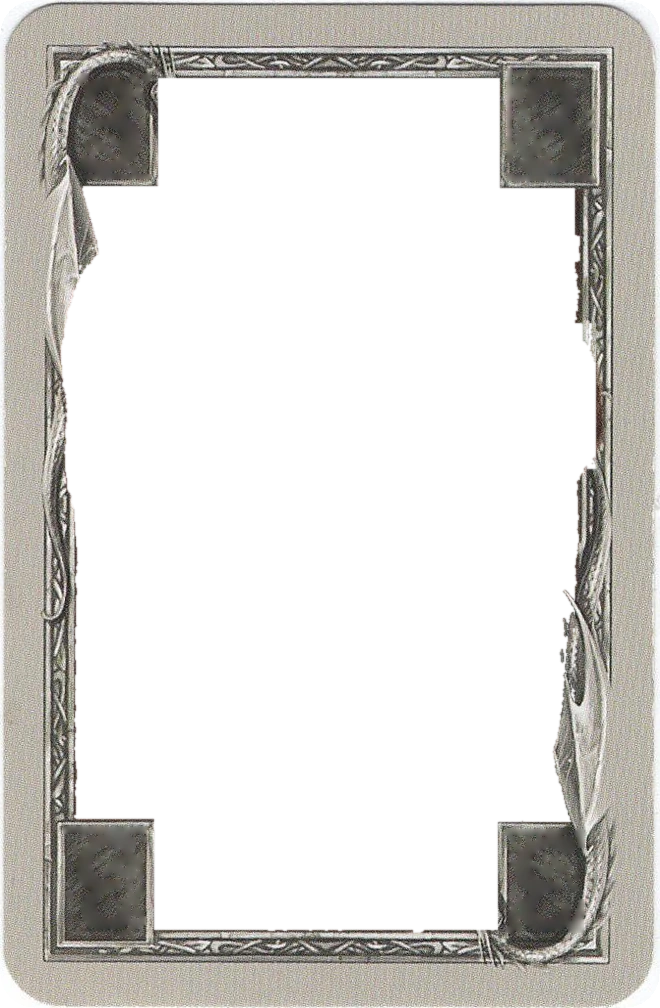
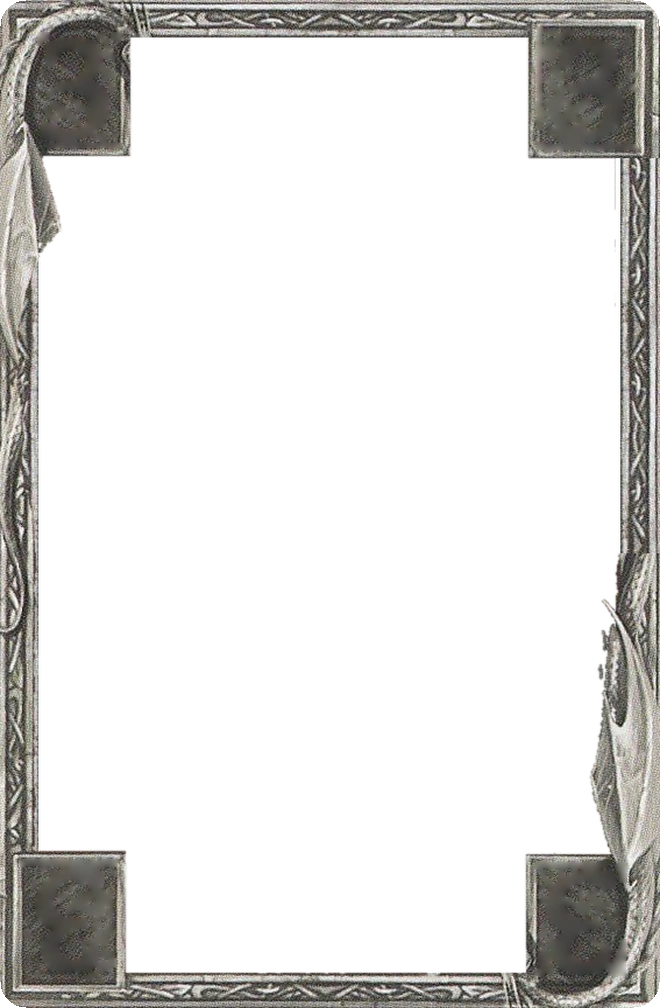
Dragonheart iteration 4: trimmed card frame with rounded corners, dark bar removed, card art aligned pixel-for-pixel with the board, numeral glow, simpler phone header

diff --git a/client/src/games/dragonheart/TableView.tsx b/client/src/games/dragonheart/TableView.tsx
@@ -218,7 +218,7 @@ function SpaceCards({ space, view }: { space: Space; view: DragonheartTableView 
           const r = slotRect(space, i)
           return (
             <div key={id} data-anchor={`slot-${space}-${i}`} style={placed(local(r), { zIndex: slotZ(i) })}>
-              <Card id={id} size={r.w} />
+              <Card id={id} size={r.w} height={r.h} />
             </div>
           )
         })}
@@ -233,7 +233,7 @@ function SpaceCards({ space, view }: { space: Space; view: DragonheartTableView 
       <StackEdges count={sv.count - 1} size={r.w} face="up" />
       {top && (
         <div data-anchor={`top-${space}`} style={{ position: 'absolute', inset: 0 }}>
-          <Card id={top} size={r.w} />
+          <Card id={top} size={r.w} height={r.h} />
         </div>
       )}
     </div>
@@ -265,7 +265,7 @@ function PileBelowShip({ view }: { view: DragonheartTableView }) {
           <StackEdges count={view.belowShip.count - 1} size={r.w} face="up" />
           {top && (
             <div data-anchor="belowShip" style={{ position: 'absolute', inset: 0 }}>
-              <Card id={top} size={r.w} />
+              <Card id={top} size={r.w} height={r.h} />
             </div>
           )}
         </div>
@@ -382,7 +382,7 @@ function ScorePile({ seat, rect, count, top }: { seat: number; rect: Rect; count
   return (
     <div data-anchor={`score-${seat}`} style={placed(rect)}>
       <StackEdges count={count - 1} size={rect.w} face="up" />
-      <Card id={top} size={rect.w} style={{ position: 'absolute', inset: 0 }} />
+      <Card id={top} size={rect.w} height={rect.h} style={{ position: 'absolute', inset: 0 }} />
     </div>
   )
 }
@@ -573,7 +573,7 @@ export function planAnimation(
         if (prevTop) {
           const r = slotRect(space, 0)
           const lands = t + (ids.length - 1) * STAGGER_MS + CARD_FLY
-          add({ from: r, to: r, node: <Card id={prevTop} size={r.w} />, delay: 0, duration: lands, vanishAt: lands, z: STACK_Z + before - 1 })
+          add({ from: r, to: r, node: <Card id={prevTop} size={r.w} height={r.h} />, delay: 0, duration: lands, vanishAt: lands, z: STACK_Z + before - 1 })
         }
         ids.forEach((id, j) => {
           const from = handRect(seat, Math.max(0, n0 - ids.length + j), n0)
@@ -583,7 +583,7 @@ export function planAnimation(
             {
               from,
               to,
-              node: <FlipCard w={to.w} h={to.h} first={<CardBack deck={deck} size={to.w} />} second={<Card id={id} size={to.w} />} />,
+              node: <FlipCard w={to.w} h={to.h} first={<CardBack deck={deck} size={to.w} height={to.h} />} second={<Card id={id} size={to.w} height={to.h} />} />,
               delay: t + j * STAGGER_MS,
               duration: CARD_FLY,
               flip: true,
@@ -614,11 +614,11 @@ export function planAnimation(
         const prevSeat = prev.players.find((p) => p.seat === seat)
         const lands = t + (pieces.length - 1) * STAGGER_MS + COLLECT_FLY
         if (prevSeat?.scoreTop) {
-          add({ from: to, to, node: <Card id={prevSeat.scoreTop} size={to.w} />, delay: 0, duration: lands, vanishAt: lands, z: 5 })
+          add({ from: to, to, node: <Card id={prevSeat.scoreTop} size={to.w} height={to.h} />, delay: 0, duration: lands, vanishAt: lands, z: 5 })
         }
         pieces.forEach((pc, i) => {
           const src = pc.id ? source(pc.id, pc.rect, t + i * STAGGER_MS) : { rect: pc.rect, delay: t + i * STAGGER_MS, appear: true, z: undefined }
-          const face = pc.id ? <Card id={pc.id} size={to.w} /> : <CardBack deck={prev.players[seat]?.deck ?? 'green'} size={to.w} />
+          const face = pc.id ? <Card id={pc.id} size={to.w} height={to.h} /> : <CardBack deck={prev.players[seat]?.deck ?? 'green'} size={to.w} />
           add(
             {
               from: src.rect,
@@ -663,7 +663,7 @@ export function planAnimation(
         const to = belowShipRect()
         ids.forEach((id, i) => {
           const src = source(id, slotRect(from, i), t + i * STAGGER_MS)
-          add({ from: src.rect, to, node: <Card id={id} size={to.w} />, delay: src.delay, duration: CARD_FLY, lift: 50, appear: src.appear, z: src.z ?? STACK_Z + i }, [id])
+          add({ from: src.rect, to, node: <Card id={id} size={to.w} height={to.h} />, delay: src.delay, duration: CARD_FLY, lift: 50, appear: src.appear, z: src.z ?? STACK_Z + i }, [id])
         })
         hidden.push('belowShip')
         sounds.push({ name: 'card-slide', at: t })
@@ -676,7 +676,7 @@ export function planAnimation(
         const to = shipStackRect(index)
         ids.forEach((id, i) => {
           const src = source(id, slotRect('ship', i), t + i * STAGGER_MS)
-          add({ from: src.rect, to, node: <Card id={id} size={to.w} />, delay: src.delay, duration: CARD_FLY, lift: 50, appear: src.appear, z: src.z ?? STACK_Z + i }, [id])
+          add({ from: src.rect, to, node: <Card id={id} size={to.w} height={to.h} />, delay: src.delay, duration: CARD_FLY, lift: 50, appear: src.appear, z: src.z ?? STACK_Z + i }, [id])
         })
         hidden.push(`shipstack-${index}`)
         sounds.push({ name: 'ship-bell', at: t })

diff --git a/client/src/games/dragonheart/components.tsx b/client/src/games/dragonheart/components.tsx
@@ -23,11 +23,8 @@ interface Frac {
   w: number
   h: number
 }
-const WINDOW = frameMeta.window as Frac
 const CARTOUCHES = frameMeta.cartouches as Record<'tl' | 'tr' | 'bl' | 'br', Frac>
 const pct = (v: number) => `${(v * 100).toFixed(3)}%`
-/** The board clip carries its painted outline at the edges; zoom slightly past it inside the window. */
-const ART_BLEED = 0.07
 
 export const DECK_FIELD: Record<DeckColor, { base: string; light: string }> = {
   green: { base: '#1f5a2a', light: '#3f8a3c' },
@@ -101,7 +98,11 @@ function Cartouche({ points, kind, at }: { points: number; kind: Kind; at: 'tl' 
 }
 
 /** A face-up Dragonheart card: board-clipped art inside the original card's frame, values in the cartouches. */
-export function Card({ id, size, style }: { id: string; size: number; style?: CSSProperties }) {
+/**
+ * `height` defaults to the card shape; on the board pass the outline's exact height so the art
+ * (the outline's own board region, stretched to fill) lines up pixel-for-pixel with the board.
+ */
+export function Card({ id, size, height, style }: { id: string; size: number; height?: number; style?: CSSProperties }) {
   const def = CARD_BY_ID[id]
   const kind = def?.kind ?? 'treasure'
   const pts = def?.points ?? 0
@@ -112,28 +113,21 @@ export function Card({ id, size, style }: { id: string; size: number; style?: CS
       style={{
         position: 'relative',
         width: size,
-        height: size * CARD_RATIO,
+        height: height ?? size * CARD_RATIO,
         fontSize: size / 10,
         borderRadius: CARD_RADIUS,
         overflow: 'hidden',
         ...style,
       }}
     >
-      <div style={{ position: 'absolute', left: pct(WINDOW.x), top: pct(WINDOW.y), width: pct(WINDOW.w), height: pct(WINDOW.h), overflow: 'hidden', background: '#2a2622' }}>
-        <img
-          src={CARD_IMG[kind]}
-          alt=""
-          draggable={false}
-          style={{
-            position: 'absolute',
-            left: pct(-ART_BLEED),
-            top: pct(-ART_BLEED),
-            width: pct(1 + 2 * ART_BLEED),
-            height: pct(1 + 2 * ART_BLEED),
-            objectFit: 'cover',
-          }}
-        />
-      </div>
+      {/* The art is the board region of the outline itself, filling the whole card with no zoom or
+          offset, so on its outline every point of the card shows the board pixel it covers. */}
+      <img
+        src={CARD_IMG[kind]}
+        alt=""
+        draggable={false}
+        style={{ position: 'absolute', inset: 0, width: '100%', height: '100%', objectFit: 'fill' }}
+      />
       <img src={FRAME_IMG} alt="" draggable={false} style={{ position: 'absolute', inset: 0, width: '100%', height: '100%', zIndex: 2 }} />
       <Cartouche points={pts} kind={kind} at="tl" />
       <Cartouche points={pts} kind={kind} at="tr" />
@@ -144,14 +138,14 @@ export function Card({ id, size, style }: { id: string; size: number; style?: CS
 }
 
 /** A card back: the repainted green or red back art inside the grey border and silver frame. */
-export function CardBack({ deck, size, style }: { deck: DeckColor; size: number; style?: CSSProperties }) {
+export function CardBack({ deck, size, height, style }: { deck: DeckColor; size: number; height?: number; style?: CSSProperties }) {
   return (
     <div
       className="dh-card"
       style={{
         position: 'relative',
         width: size,
-        height: size * CARD_RATIO,
+        height: height ?? size * CARD_RATIO,
         fontSize: size / 10,
         borderRadius: CARD_RADIUS,
         background: 'linear-gradient(160deg, #d9d6d0, #bfbab2)',

diff --git a/client/src/games/dragonheart/layout.test.ts b/client/src/games/dragonheart/layout.test.ts
@@ -1,6 +1,8 @@
 import { describe, expect, it } from 'vitest'
 import { CAPACITY, SPACES } from '@games/dragonheart/data'
 import { flightBox, type Rect } from './flyers'
+import geometry from './boardGeometry.json'
+import clips from './assets/cards/clips.json'
 import {
   BOARD,
   H,
@@ -43,6 +45,32 @@ describe('board layout (measured from the real board)', () => {
     expect(inside(boardDragonRect(), BOARD)).toBe(true)
     for (const a of rects) for (const b of rects) if (a.space !== b.space) expect(overlaps(a.r, b.r)).toBe(false)
     for (const a of rects) expect(overlaps(a.r, boardDragonRect())).toBe(false)
+  })
+
+  it("clips each card's art from exactly its front outline's board region, so a card on that outline matches the board", () => {
+    const geo = geometry as unknown as {
+      source: { w: number; h: number }
+      spaces: Record<string, { outlines: { x: number; y: number; w: number; h: number }[]; orientation: string }>
+    }
+    const c = clips as unknown as { source: { w: number; h: number }; clips: Record<string, { box: number[]; rotated: boolean }> }
+    expect(c.source).toEqual({ w: geo.source.w, h: geo.source.h })
+    for (const s of SPACES) {
+      const o = geo.spaces[s].outlines[0]
+      const [x0, y0, x1, y1] = c.clips[s].box
+      // within half a source pixel of the measured outline
+      expect(Math.abs(x0 - o.x * c.source.w)).toBeLessThanOrEqual(0.5)
+      expect(Math.abs(y0 - o.y * c.source.h)).toBeLessThanOrEqual(0.5)
+      expect(Math.abs(x1 - (o.x + o.w) * c.source.w)).toBeLessThanOrEqual(0.5)
+      expect(Math.abs(y1 - (o.y + o.h) * c.source.h)).toBeLessThanOrEqual(0.5)
+      // a landscape clip is stored turned to portrait and turned back 90° on the board
+      expect(c.clips[s].rotated).toBe(geo.spaces[s].orientation === 'landscape')
+      const slot = slotRect(s, 0)
+      expect(slot.r ?? 0).toBe(c.clips[s].rotated ? 90 : 0)
+      // the card's art box (the whole card) covers exactly the front outline on screen
+      const b = boundsOf(slot)
+      const fo = outlineRect(s, 0)
+      for (const k of ['x', 'y', 'w', 'h'] as const) expect(b[k]).toBeCloseTo(fo[k], 5)
+    }
   })
 
   it('turns cards 90° on the landscape outlines (Petrified Dragon, the pile below the Ship)', () => {

diff --git a/client/src/games/dragonheart/PhoneView.tsx b/client/src/games/dragonheart/PhoneView.tsx
@@ -81,10 +81,6 @@ export function PhoneView({ view, playerOrder, sendAction, pending, error, clear
         <div className="flex items-center gap-2">
           <span className="w-3.5 h-5 rounded-sm shrink-0" style={{ background: deckHex }} title={`${me?.deck} deck`} />
           <span className="dh-serif text-xl truncate flex-1">{me?.name}</span>
-          <span className="flex items-center gap-1 text-sm text-amber-100/85">
-            {view.handMax > 5 && <GreatDragon size={26} />}
-            Hand {view.hand.length}/{view.handMax}
-          </span>
           <button
             type="button"
             onClick={() => setPileOpen(true)}

diff --git a/client/src/games/dragonheart/dragonheart.css b/client/src/games/dragonheart/dragonheart.css
@@ -75,6 +75,7 @@
 
 /* Card values woven into the frame's cartouches: white Cinzel with a dark engraved outline. */
 .dh-cartouche-numeral {
-  text-shadow: 0 0 0.06em #000, 0 0.04em 0.08em rgba(0, 0, 0, 0.9);
+  /* A black glow all round so the value stands out on any art. */
+  text-shadow: 0 0 0.05em #000, 0 0 0.1em #000, 0 0 0.2em #000, 0 0 0.35em rgba(0, 0, 0, 0.8);
   -webkit-text-stroke: 0.025em rgba(20, 20, 20, 0.85);
 }

diff --git a/tools/dragonheart-art/make_frame.py b/tools/dragonheart-art/make_frame.py
@@ -42,6 +42,8 @@ CARTOUCHES = {  # outer rects of the four dark corner cartouches
     'bl': (57, 838, 157, 966),
     'br': (506, 841, 601, 961),
 }
+# Outer edge of the silver filigree band (the grey card border outside it is trimmed off).
+BAND_OUTER = (47, 45, 623, 984)
 # Strips inside the window where the silver dragon overlaps the art (kept if silver).
 DRAGON_STRIPS = [(80, 80, 150, 680), (520, 560, 585, 951)]
 
@@ -141,25 +143,73 @@ def main():
     # Soften the alpha edge by a pixel so the cut doesn't alias.
     alpha = np.asarray(Image.fromarray((alpha * 255).astype(np.uint8)).filter(ImageFilter.GaussianBlur(0.7))).astype(float) / 255
 
-    # 5. Rounded outer corners (the scan's white background outside the card goes transparent).
-    r = 34
+    # 5. Repair the side bands (iteration 4). Removing the Troll's paint left holes in the band
+    #    next to the art window (Joe saw them as a thick dark bar on every card). Underlay the
+    #    whole band ring with a clean straight filigree strip taken from the top band between the
+    #    cartouches, so any hole shows filigree instead of nothing.
+    frame = Image.fromarray((np.dstack([rgb, alpha]) * 255).clip(0, 255).astype(np.uint8), 'RGBA')
+    tx0, tx1 = sc((240, 0, 440, 0))[0], sc((240, 0, 440, 0))[2]
+    by0, by1 = sc((0, BAND_OUTER[1], 0, WINDOW[1]))[1], sc((0, BAND_OUTER[1], 0, WINDOW[1]))[3]
+    strip = frame.crop((tx0, by0, tx1, by1)).convert('RGB').convert('RGBA')  # opaque band texture
+    under = Image.new('RGBA', (W, H), (0, 0, 0, 0))
+    ox0, oy0, ox1, oy1 = sc(BAND_OUTER)
+    ix0w, iy0w, ix1w, iy1w = sc(WINDOW)
+    def tile_h(img, x0, x1, y):
+        x = x0
+        while x < x1:
+            under.paste(img.crop((0, 0, min(img.width, x1 - x), img.height)), (x, y))
+            x += img.width
+    def tile_v(img, y0, y1, x):
+        y = y0
+        while y < y1:
+            under.paste(img.crop((0, 0, img.width, min(img.height, y1 - y))), (x, y))
+            y += img.height
+    bh = by1 - by0
+    tile_h(strip, ox0, ox1, oy0)                                         # top
+    tile_h(strip.transpose(Image.FLIP_TOP_BOTTOM), ox0, ox1, oy1 - bh)   # bottom
+    side = strip.rotate(90, expand=True)                                 # vertical band, outer edge left
+    tile_v(side, oy0, oy1, ox0)                                          # left
+    tile_v(side.transpose(Image.FLIP_LEFT_RIGHT), oy0, oy1, ox1 - bh)    # right
+    # The underlay stops at the window so the art still shows there.
+    ua = np.asarray(under).copy()
+    ua[iy0w:iy1w, ix0w:ix1w, 3] = 0
+    under = Image.fromarray(ua, 'RGBA')
+    clean = under.copy()
+    under.alpha_composite(frame)
+    frame = under
+    # The right band between the top-right cartouche and the dragon's tail still shows the
+    # Troll's fur through the filigree; that stretch is plain band, so use the clean strip there.
+    rb = sc((WINDOW[2], CARTOUCHES['tr'][3], BAND_OUTER[2], DRAGON_STRIPS[1][1]))
+    frame.paste(clean.crop(rb), rb[:2])
+
+    # 6. Trim the light-grey outer border (iteration 4): the card's edge becomes the silver
+    #    filigree's outer edge. The trimmed frame is stretched back to the outline shape W x H
+    #    (a small vertical squash of the ornament) so cards still equal their board outlines.
+    trim = sc(BAND_OUTER)
+    tw, th = trim[2] - trim[0], trim[3] - trim[1]
+    frame = frame.crop(trim).resize((W, H), Image.LANCZOS)
+    rgba = np.asarray(frame).astype(float) / 255
+    alpha = rgba[..., 3].copy()
+
+    # 7. Rounded outer corners (about 4% of the width).
+    r = int(round(W * 0.04))
     yy, xx = np.mgrid[0:H, 0:W]
     for cx, cy in ((r, r), (W - r - 1, r), (r, H - r - 1), (W - r - 1, H - r - 1)):
         inx = (xx < r) if cx == r else (xx > W - r - 1)
         iny = (yy < r) if cy == r else (yy > H - r - 1)
         corner = inx & iny & ((xx - cx) ** 2 + (yy - cy) ** 2 > r * r)
         alpha[corner] = 0
+    rgba[..., 3] = alpha
 
     OUT_DIR.mkdir(parents=True, exist_ok=True)
-    rgba = np.dstack([rgb, alpha])
     Image.fromarray((rgba * 255).clip(0, 255).astype(np.uint8), 'RGBA').save(OUT_DIR / 'frame.webp', quality=95, method=6)
 
     def frac(rect):
         x0, y0, x1, y1 = sc(rect)
-        return {'x': x0 / W, 'y': y0 / H, 'w': (x1 - x0) / W, 'h': (y1 - y0) / H}
+        return {'x': (x0 - trim[0]) / tw, 'y': (y0 - trim[1]) / th, 'w': (x1 - x0) / tw, 'h': (y1 - y0) / th}
 
     meta = {
-        'source': 'Card Faces - All Types.jpg (Troll card), straightened; numbers erased; window cut out',
+        'source': 'Card Faces - All Types.jpg (Troll card), straightened; numbers erased; window cut out; side bands repaired; grey border trimmed',
         'size': [W, H],
         'window': frac(WINDOW),
         'cartouches': {k: frac(v) for k, v in CARTOUCHES.items()},

diff --git a/tools/dragonheart-art/clip_cards.py b/tools/dragonheart-art/clip_cards.py
@@ -32,6 +32,7 @@ def main():
     assert (W, H) == (geo['source']['w'], geo['source']['h']), 'geometry was measured on a different image size'
     board.save(os.path.join(GAME, 'assets', 'board', 'panorama.webp'), 'WEBP', quality=95, method=6)
     os.makedirs(os.path.join(GAME, 'assets', 'cards'), exist_ok=True)
+    manifest = {'source': {'w': W, 'h': H}, 'clips': {}}
     for kind in KINDS:
         sp = geo['spaces'][kind]
         o = sp['outlines'][0]
@@ -41,7 +42,12 @@ def main():
             clip = clip.rotate(90, expand=True)
         clip = clip.resize((clip.width * 2, clip.height * 2), Image.LANCZOS)
         clip.save(os.path.join(GAME, 'assets', 'cards', f'{kind}.webp'), 'WEBP', quality=92, method=6)
+        manifest['clips'][kind] = {'box': list(box), 'rotated': sp['orientation'] == 'landscape'}
         print(kind, box, clip.size)
+    # The exact pixel boxes clipped, so tests can prove each card's art is its outline's region.
+    with open(os.path.join(GAME, 'assets', 'cards', 'clips.json'), 'w') as f:
+        json.dump(manifest, f, indent=2)
+        f.write('\n')
     if '--check' in sys.argv:
         out = sys.argv[sys.argv.index('--check') + 1]
         os.makedirs(out, exist_ok=True)

diff --git a/client/src/games/dragonheart/assets/README.md b/client/src/games/dragonheart/assets/README.md
@@ -86,3 +86,8 @@ The original cards' artistic border, derived from the scanned Troll card (vault 
 
 ### Great Dragon token: `token/great-dragon.webp`
 Joe's own token art (a silver coin with a dragon head and a key-pattern rim; supplied in the thread 2026-10-27, also copied to vault `Board Art/Dragon Token - Joe.png`), trimmed to its bounding box and resized to 400×400 with alpha. It replaces the SVG medallion.
+
+## Iteration 4 (card frame trim, band repair, art alignment)
+- `tools/dragonheart-art/make_frame.py` now trims the light-grey card border, so the card's edge is the silver filigree's outer edge (`BAND_OUTER`, in the straightened scan's px). The trimmed frame is stretched back to 660×1008 (outline shape) with a 4%-of-width corner radius.
+- **Band repair:** cutting the Troll art out had left transparent holes in the side bands next to the window. They showed as a thick dark bar on every card. A clean straight filigree strip from the top band is now tiled under the whole band ring, and the right band between the top-right cartouche and the dragon's tail uses that strip outright (it still showed troll fur).
+- **Alignment:** the card's art layer is the outline's own board region (`cards/clips.json` records the exact pixel boxes) stretched to the full card box with no zoom or offset, under the frame. Board cards pass the outline's exact height, so they cover the painted board pixel-for-pixel.
